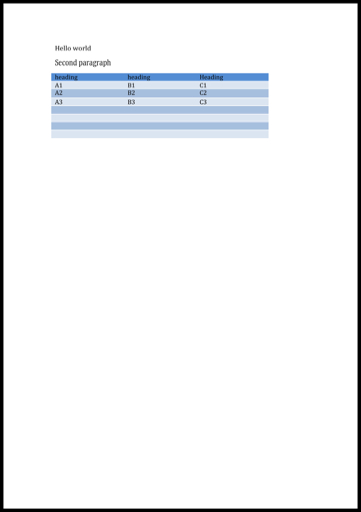
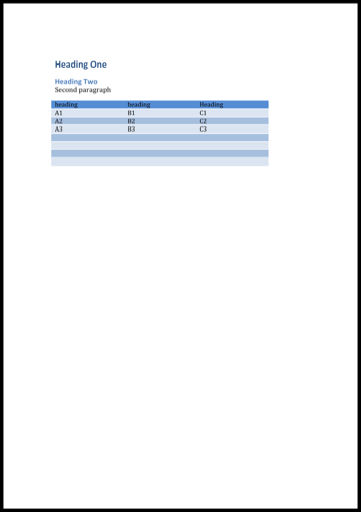
- Updated sample template to include heading styles - Added addheading() to create headings - No longer creation unnecessary revision SIDs (rsidx) attributes

Changed region(s): [[0.1219, 0.0625, 0.7618, 0.3438]]

diff --git a/pyword.py b/pyword.py
@@ -14,6 +14,7 @@ key is left column, data is right column
 
 from lxml import etree
 import zipfile
+import sys
 #import ipdb
 
 wordnamespaces = {
@@ -44,7 +45,7 @@ def makeelement(tagname,tagattributes=None,tagtext=None):
     # Add attributes with namespaces
     if tagattributes:
         for tagattribute in tagattributes:
-            newelement.set('{'+wordnamespaces['w']+'}'+tagattribute, tagattributes[tagattribute])
+            newelement.set(namespace+tagattribute, tagattributes[tagattribute])
     if tagtext:
         newelement.text = tagtext    
     return newelement
@@ -52,9 +53,8 @@ def makeelement(tagname,tagattributes=None,tagtext=None):
 
 def addparagraph(paratext):
     '''Make a new paragraph element, containing a run, and some text. Return the paragraph element.'''
-    global document
     # Make our elements
-    paragraph = makeelement('p',tagattributes={'rsidR':'008D6863','rsidRDefault':'00590D07'})
+    paragraph = makeelement('p')
     run = makeelement('r')
     text = makeelement('t',tagtext=paratext)
     # Add the text the run, and the run to the paragraph
@@ -62,7 +62,23 @@ def addparagraph(paratext):
     paragraph.append(run)    
     # Return the combined paragraph
     return paragraph
-    
+
+def addheading(headingtext,headinglevel):
+    '''Make a new heading, return the heading element'''
+    # Make our elements
+    paragraph = makeelement('p')
+    pr = makeelement('pPr')
+    pStyle = makeelement('pStyle',tagattributes={'val':'Heading'+str(headinglevel)})    
+    run = makeelement('r')
+    text = makeelement('t',tagtext=headingtext)
+    # Add the text the run, and the run to the paragraph
+    pr.append(pStyle)
+    run.append(text)
+    paragraph.append(pr)   
+    paragraph.append(run)    
+    # Return the combined paragraph
+    return paragraph   
+
 def search(phrase):
     '''Recieve a search, return the results'''
     results = False
@@ -102,11 +118,19 @@ if __name__ == '__main__':
     #ipdb.set_trace()
     
     # This location is where most document content lives 
-    docbody = document.xpath('/w:document/w:body', namespaces=wordnamespaces)
+    docbody = document.xpath('/w:document/w:body', namespaces=wordnamespaces)[0]
     
     # Attach a paragraph element to the top of our document body
-    newpara = addparagraph(paratext='Success! PyWord is working!')    
-    docbody[0].insert(0, newpara)
+    newheading = addheading('All your base are belong to us',1)    
+    docbody.append(newheading)
+
+    newheading = addheading('You have no chance to survive. ',2)    
+    docbody.append(newheading)
+
+
+    # Attach a paragraph element to the top of our document body
+    newpara = addparagraph(paratext='Make your time. Hahaha')    
+    docbody.append(newpara)
     
     # Save our document
-    savedocx(document,'Test file.docx')
+    savedocx(document,sys.argv[1])
